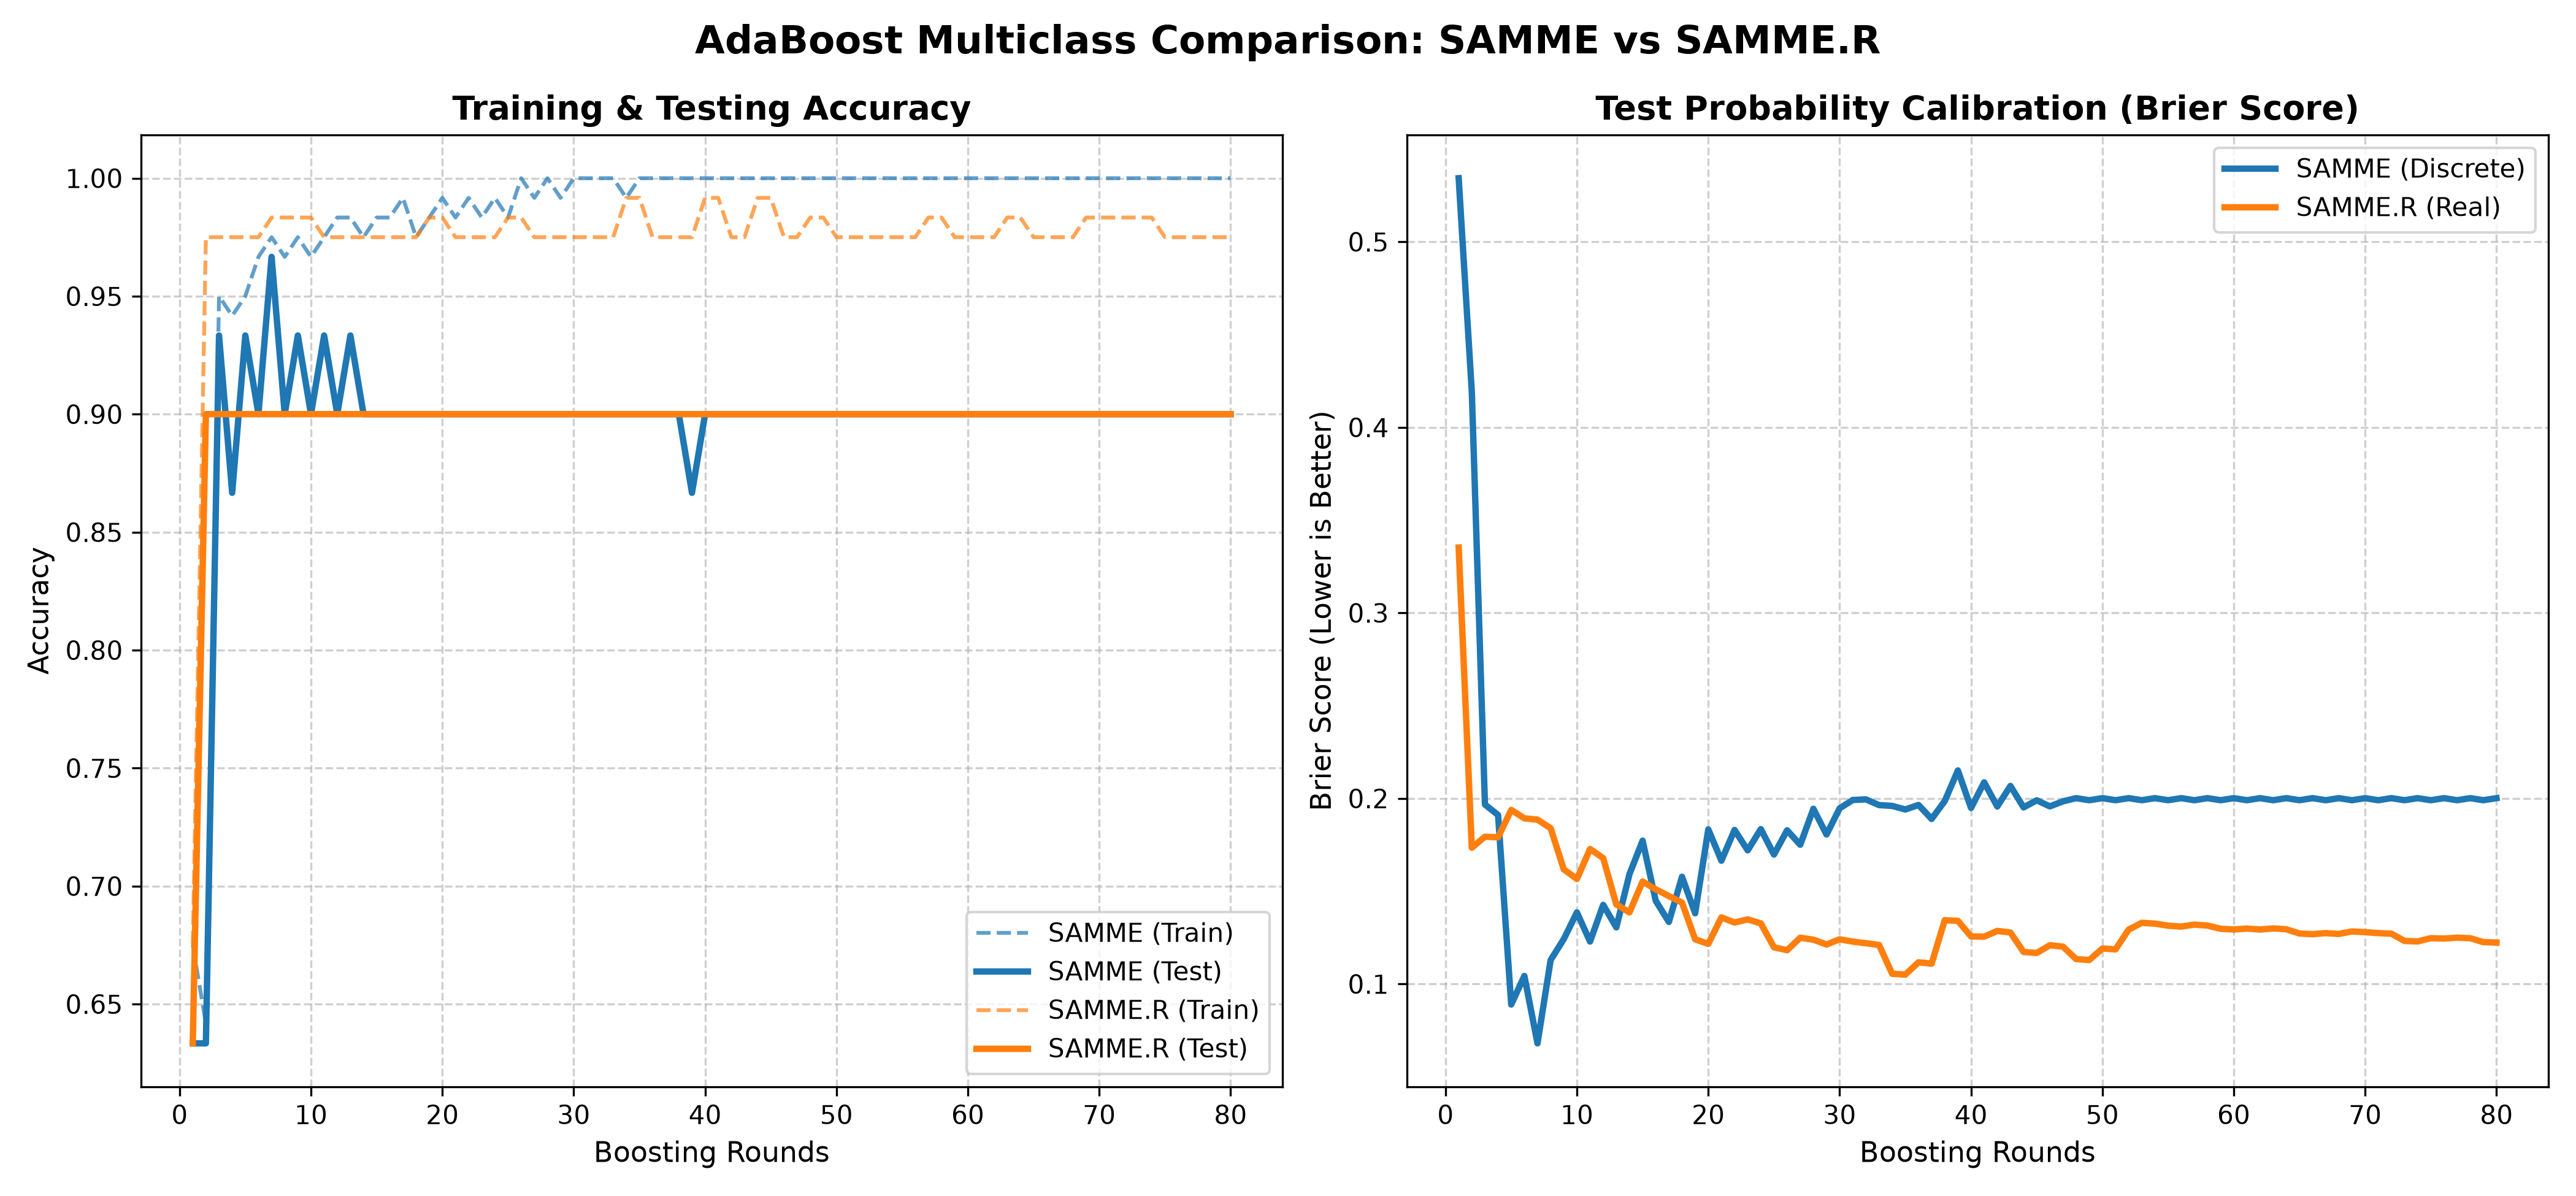
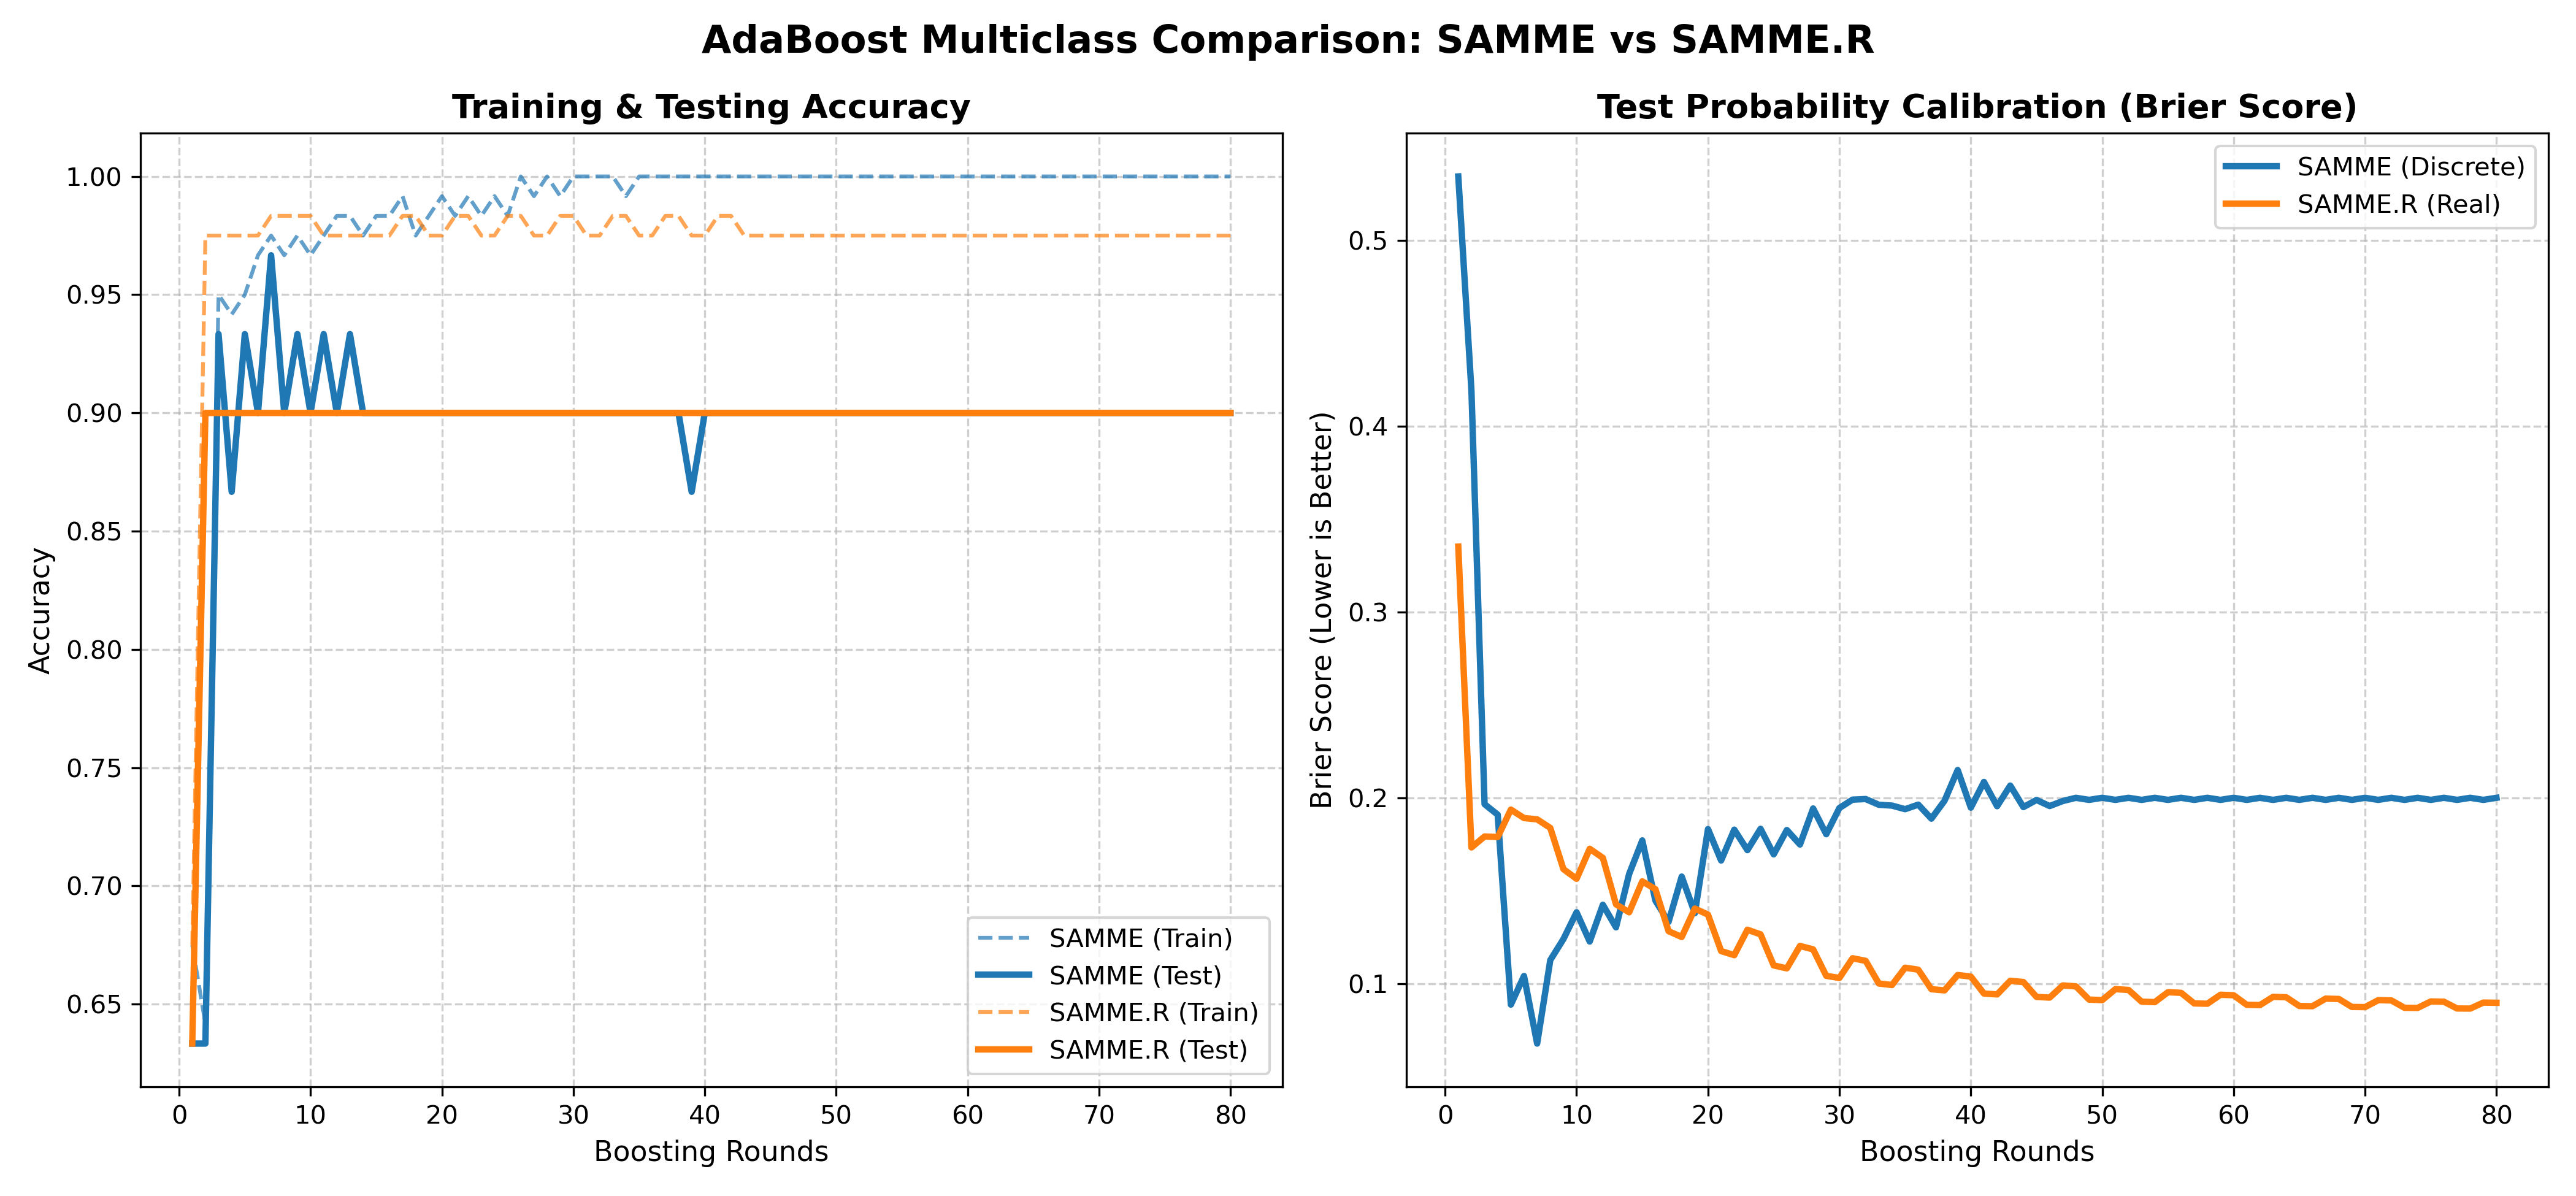
added Covertype loader

diff --git a/src/utils/preprocessing.py b/src/utils/preprocessing.py
@@ -23,15 +23,36 @@ def train_test_split(
     y: np.ndarray,
     test_size: float = 0.2,
     random_state: int | None = 42,
+    stratify: np.ndarray | None = None,
 ) -> tuple[np.ndarray, np.ndarray, np.ndarray, np.ndarray]:
     """Split features and target matrices into random train and test subsets."""
     rng = np.random.default_rng(random_state)
     n_samples = X.shape[0]
-    indices = rng.permutation(n_samples)
 
-    n_test = int(n_samples * test_size)
-    test_idx = indices[:n_test]
-    train_idx = indices[n_test:]
+    if stratify is not None:
+        y_strat = np.asarray(stratify)
+        classes = np.unique(y_strat)
+        train_indices_list = []
+        test_indices_list = []
+
+        for c in classes:
+            idx_c = rng.permutation(np.where(y_strat == c)[0])
+            n_test_c = max(1, int(np.round(len(idx_c) * test_size))) if len(idx_c) > 1 else 0
+            if len(idx_c) == 1:
+                train_indices_list.append(idx_c)
+            else:
+                test_indices_list.append(idx_c[:n_test_c])
+                train_indices_list.append(idx_c[n_test_c:])
+
+        train_idx = np.concatenate(train_indices_list)
+        test_idx = np.concatenate(test_indices_list)
+        rng.shuffle(train_idx)
+        rng.shuffle(test_idx)
+    else:
+        indices = rng.permutation(n_samples)
+        n_test = int(n_samples * test_size)
+        test_idx = indices[:n_test]
+        train_idx = indices[n_test:]
 
     return X[train_idx], X[test_idx], y[train_idx], y[test_idx]
 
@@ -101,16 +122,13 @@ def load_adult(data_dir: str = "data") -> tuple[np.ndarray, np.ndarray, np.ndarr
 
 def load_covertype(
     data_dir: str = "data",
-    n_samples: int | None = 10000,
+    n_samples: int | None = 30000,
     random_state: int | None = 42,
 ) -> tuple[np.ndarray, np.ndarray]:
     """Load a subset of the Covertype dataset and convert target to 0-indexed classes."""
     path = os.path.join(data_dir, "covtype.data")
 
-    # We read up to n_samples * 2 rows to have enough for a random sample,
-    # or all if n_samples is None
-    nrows = n_samples * 2 if n_samples else None
-    df = pd.read_csv(path, header=None, nrows=nrows)
+    df = pd.read_csv(path, header=None)
 
     if n_samples and len(df) > n_samples:
         df = df.sample(n=n_samples, random_state=random_state)

diff --git a/verify_split.py b/verify_split.py
@@ -1,0 +1,25 @@
+import numpy as np
+from experiments.utils import get_dataset
+
+def main():
+    print("Checking Covertype dataset loading and class distribution...")
+    X_train, X_test, y_train, y_test = get_dataset("covertype", random_state=42)
+    
+    print("\n--- Train set split ---")
+    train_classes, train_counts = np.unique(y_train, return_counts=True)
+    for c, count in zip(train_classes, train_counts):
+        print(f"Class {c}: {count} samples ({count / len(y_train) * 100:.2f}%)")
+        
+    print("\n--- Test set split ---")
+    test_classes, test_counts = np.unique(y_test, return_counts=True)
+    for c, count in zip(test_classes, test_counts):
+        print(f"Class {c}: {count} samples ({count / len(y_test) * 100:.2f}%)")
+        
+    # Check if the minority class (which is class 4 / 3 0-indexed) survived.
+    # Class 4 is 3. Let's make sure it is in both train and test.
+    assert 3 in train_classes, "Minority class (class 4 / target index 3) missing from train set!"
+    assert 3 in test_classes, "Minority class (class 4 / target index 3) missing from test set!"
+    print("\n=> Verification successful: Minority class exists in both train and test partitions.")
+
+if __name__ == "__main__":
+    main()

diff --git a/experiments/utils.py b/experiments/utils.py
@@ -6,6 +6,7 @@ from src.utils.preprocessing import (
     load_breast_cancer,
     load_adult,
     load_mnist_subset,
+    load_covertype,
     train_test_split,
     standardize,
 )
@@ -53,6 +54,12 @@ def get_dataset(
             X, y, test_size=0.2, random_state=random_state
         )
 
+    elif name == "covertype":
+        X, y = load_covertype(data_dir=data_dir, n_samples=30000, random_state=random_state)
+        X_train, X_test, y_train, y_test = train_test_split(
+            X, y, test_size=0.2, random_state=random_state, stratify=y
+        )
+
     else:
         raise ValueError(f"Unknown dataset name: {name}")
 
@@ -88,3 +95,12 @@ def plot_scaling_curve(
     save_path = os.path.join("figures", save_filename)
     plt.savefig(save_path, dpi=150, bbox_inches="tight")
     plt.close()
+
+
+def safe_auc(y_test: np.ndarray, proba: np.ndarray) -> float:
+    """Compute AUC-ROC score, handling both binary (2-class) and multiclass scenarios."""
+    from sklearn.metrics import roc_auc_score  # type: ignore
+    if proba.shape[1] == 2:
+        return float(roc_auc_score(y_test, proba[:, 1]))
+    else:
+        return float(roc_auc_score(y_test, proba, multi_class="ovr", average="macro"))

diff --git a/experiments/scaling.py b/experiments/scaling.py
@@ -1,14 +1,13 @@
 from __future__ import annotations
 from sklearn.tree import DecisionTreeClassifier  # type: ignore
-from sklearn.metrics import roc_auc_score  # type: ignore
 from src.trees.decision_tree import DecisionTree, DecisionStump
 from src.metrics.evaluation import accuracy_score, precision_recall_f1
-from experiments.utils import get_dataset
+from experiments.utils import get_dataset, safe_auc
 
 
 def run_experiment_1() -> None:
     """Run Experiment 1: Baseline comparison of DecisionTree, DecisionStump, and sklearn DecisionTree."""
-    datasets = ["breast_cancer", "adult", "mnist"]
+    datasets = ["breast_cancer", "adult", "mnist", "covertype"]
     print("================================================================================")
     print("Experiment 1: Baseline Comparison")
     print("================================================================================")
@@ -39,18 +38,17 @@ def run_experiment_1() -> None:
         # Evaluate Custom Tree
         c_acc = accuracy_score(y_test, custom_preds)
         _, _, c_f1 = precision_recall_f1(y_test, custom_preds, average="macro")
-        # For binary classification, roc_auc_score expects probabilities of class 1
-        c_auc = float(roc_auc_score(y_test, custom_probs[:, 1]))
+        c_auc = safe_auc(y_test, custom_probs)
 
         # Evaluate Custom Stump
         s_acc = accuracy_score(y_test, custom_stump_preds)
         _, _, s_f1 = precision_recall_f1(y_test, custom_stump_preds, average="macro")
-        s_auc = float(roc_auc_score(y_test, custom_stump_probs[:, 1]))
+        s_auc = safe_auc(y_test, custom_stump_probs)
 
         # Evaluate Sklearn Tree
         sk_acc = accuracy_score(y_test, sklearn_preds)
         _, _, sk_f1 = precision_recall_f1(y_test, sklearn_preds, average="macro")
-        sk_auc = float(roc_auc_score(y_test, sklearn_probs[:, 1]))
+        sk_auc = safe_auc(y_test, sklearn_probs)
 
         # Printing results table
         print(f"{'Classifier':<25} | {'Accuracy':<10} | {'Macro F1':<10} | {'AUC-ROC':<10}")

diff --git a/experiments/head_to_head.py b/experiments/head_to_head.py
@@ -25,13 +25,12 @@ import os
 import numpy as np
 import matplotlib.pyplot as plt  # type: ignore
 from sklearn.ensemble import RandomForestClassifier as SklearnRandomForestClassifier  # type: ignore
-from sklearn.metrics import roc_auc_score  # type: ignore
 
 from src.trees.decision_tree import DecisionTree
 from src.boosting.adaboost import AdaBoostClassifier
 from src.bagging.random_forest import RandomForestClassifier
 from src.metrics.evaluation import accuracy_score, precision_recall_f1
-from experiments.utils import get_dataset
+from experiments.utils import get_dataset, safe_auc
 
 N_ESTIMATORS = 100
 N_FOLDS = 5
@@ -123,9 +122,7 @@ def _evaluate_fold(model, X_train, y_train, X_test, y_test) -> tuple[float, floa
 
     acc = accuracy_score(y_test, y_pred)
     _, _, f1 = precision_recall_f1(y_test, y_pred, average="macro")
-    # All target datasets (breast_cancer, adult, mnist 3-vs-8) are binary,
-    # so AUC-ROC is computed against the probability of the positive class.
-    auc = float(roc_auc_score(y_test, proba[:, 1]))
+    auc = safe_auc(y_test, proba)
 
     return acc, f1, auc
 
@@ -136,7 +133,7 @@ def _evaluate_fold(model, X_train, y_train, X_test, y_test) -> tuple[float, floa
 
 def run_experiment_4() -> None:
     """Run Experiment 4: head-to-head comparison across datasets via 5-fold CV."""
-    datasets = ["breast_cancer", "adult", "mnist"]
+    datasets = ["breast_cancer", "adult", "mnist", "covertype"]
     print("================================================================================")
     print("Experiment 4: Head-to-Head Comparison (100 estimators, 5-fold CV)")
     print("================================================================================")

diff --git a/experiments/sammer_comparison.py b/experiments/sammer_comparison.py
@@ -89,13 +89,13 @@ def run_sammer_comparison():
     # Summarize final results
     print("\n" + "=" * 50)
     print(f"Final Results (at {n_estimators} rounds):")
-    print(f"SAMME (Discrete):")
+    print("SAMME (Discrete):")
     print(f"  Train Accuracy: {samme_train_acc[-1]:.4f}")
     print(f"  Test Accuracy : {samme_test_acc[-1]:.4f}")
     print(f"  Test Brier    : {samme_test_brier[-1]:.4f}")
     print(f"  Test Log-Loss : {samme_test_loss[-1]:.4f}")
     print("-" * 50)
-    print(f"SAMME.R (Real):")
+    print("SAMME.R (Real):")
     print(f"  Train Accuracy: {sammer_train_acc[-1]:.4f}")
     print(f"  Test Accuracy : {sammer_test_acc[-1]:.4f}")
     print(f"  Test Brier    : {sammer_test_brier[-1]:.4f}")

diff --git a/experiments/adaboost_scaling.py b/experiments/adaboost_scaling.py
@@ -6,7 +6,7 @@ from experiments.utils import get_dataset, plot_scaling_curve
 
 def run_experiment_2() -> None:
     """Run Experiment 2: AdaBoost scaling (train and test errors vs. n_estimators)."""
-    datasets = ["breast_cancer", "adult", "mnist"]
+    datasets = ["breast_cancer", "adult", "mnist", "covertype"]
     print("================================================================================")
     print("Experiment 2: AdaBoost Scaling")
     print("================================================================================")

diff --git a/experiments/noise_robustness.py b/experiments/noise_robustness.py
@@ -90,7 +90,7 @@ def _plot_degradation_curves(
 
 def run_experiment_5() -> None:
     """Run Experiment 5: noise robustness of AdaBoost vs Random Forest."""
-    datasets = ["breast_cancer", "adult", "mnist"]
+    datasets = ["breast_cancer", "adult", "mnist", "covertype"]
     print("================================================================================")
     print("Experiment 5: Noise Robustness (label flipping)")
     print("================================================================================")

diff --git a/experiments/rf_scaling.py b/experiments/rf_scaling.py
@@ -6,7 +6,7 @@ from experiments.utils import get_dataset, plot_scaling_curve
 
 def run_experiment_3() -> None:
     """Run Experiment 3: Random Forest scaling (estimators and depth variations)."""
-    datasets = ["breast_cancer", "adult", "mnist"]
+    datasets = ["breast_cancer", "adult", "mnist", "covertype"]
     print("================================================================================")
     print("Experiment 3: Random Forest Scaling")
     print("================================================================================")

diff --git a/experiments/tsne_all_datasets.py b/experiments/tsne_all_datasets.py
@@ -60,7 +60,7 @@ def main() -> None:
             print(f"Subsampled to {n_samples_limit} rows for performance.")
 
         # 3. Fit t-SNE
-        print(f"Running t-SNE with perplexity=30...")
+        print("Running t-SNE with perplexity=30...")
         tsne = TSNE(
             n_components=2,
             perplexity=min(30, X.shape[0] - 1),